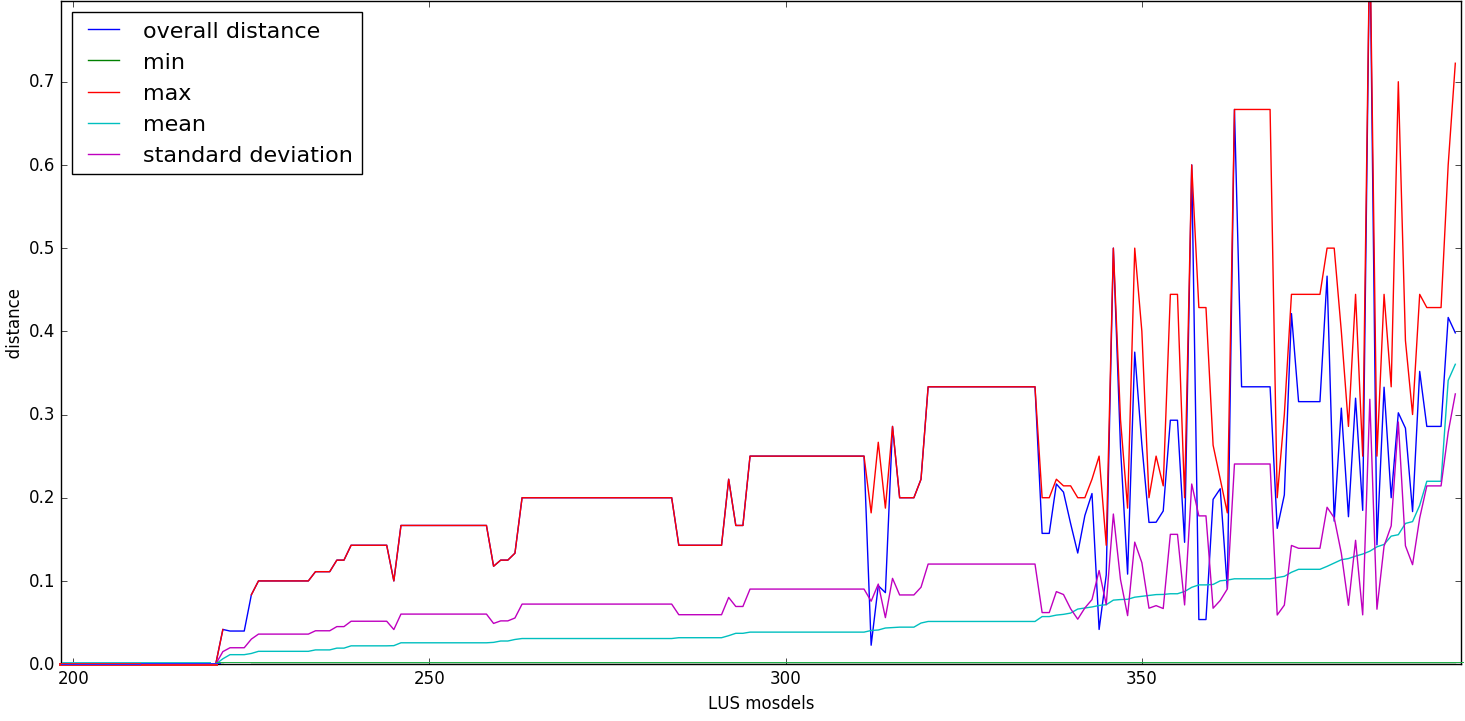
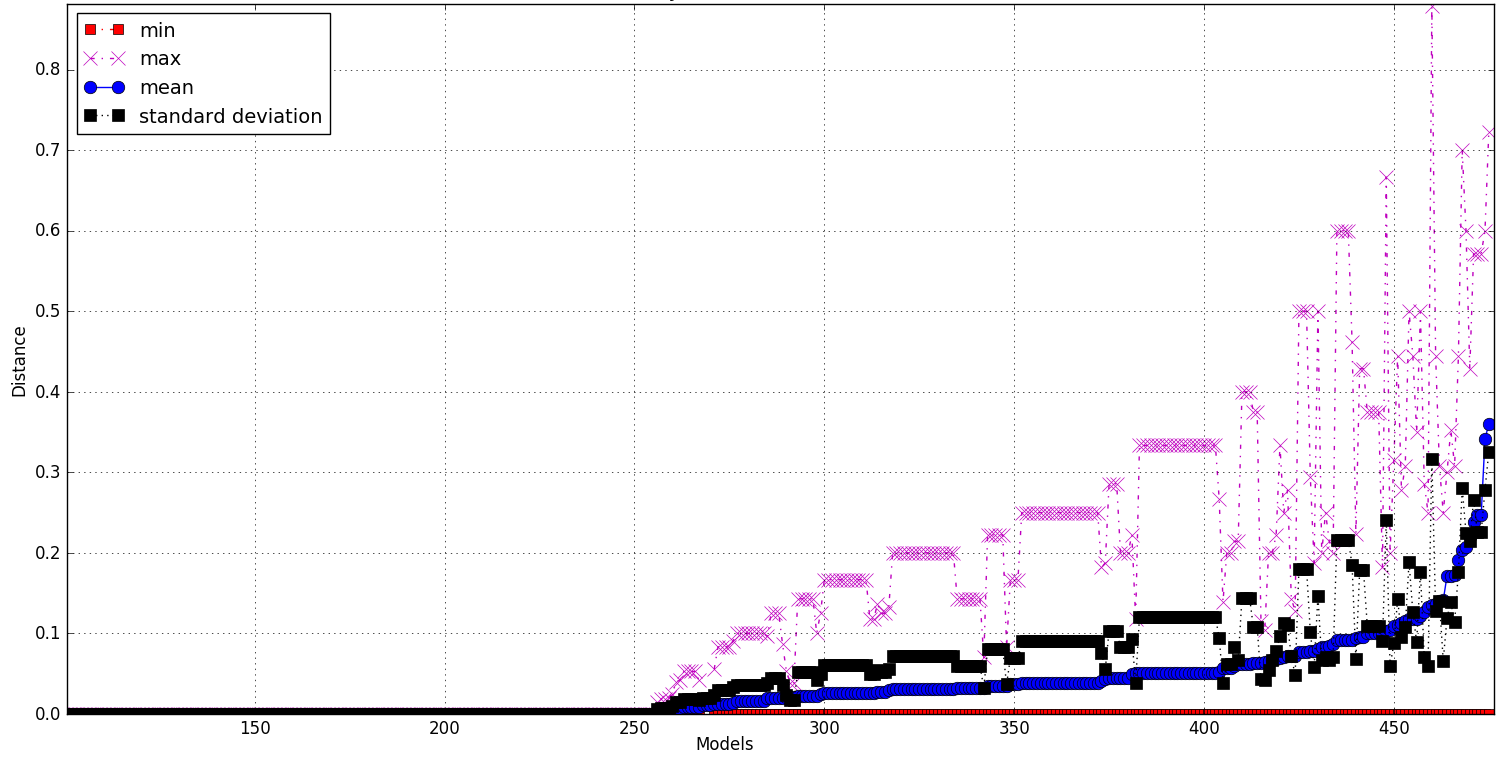
update pics!
will add more...

diff --git a/support/support_TeX/results.tex b/support/support_TeX/results.tex
@@ -57,6 +57,11 @@ Finally, we consider the combined \ucbfalg algorithm, in which we first run the 
   \caption{Runtime of \ucalg, \bfalg, \ucbfalg algorithm for Yices}\label{fig:runtimeall}
 \end{figure*}
 
+\begin{figure*}
+  \centering
+  \includegraphics[width=\textwidth]{figs/performance.png}
+  \caption{\ucalg performance on different solver}\label{fig:performance}
+\end{figure*}
 
 \begin{table}
   \centering
@@ -199,9 +204,8 @@ Since \texttt{JSupport}, with a great percentage, most of the time computed the 
 
 \begin{figure*}
   \centering
-  \includegraphics[width=0.75\textwidth]{figs/jacdis2.png} \\
-  \mike{Add new models, and fix spelling error (mosdels) !}
-  \caption{Pairwise Jaccard distance between support sets}\label{fig:jacdis}
+  \includegraphics[width=\textwidth]{figs/jacdis2.png} \\
+  \caption{Pairwise Jaccard distance between IVCs}\label{fig:jacdis2}
 \end{figure*}
 
 \subsection{Diversity}
@@ -251,7 +255,7 @@ Table~\ref{tab:variety} shows that, with an effect size of 0.79, H0 can be rejec
   \end{tabular}
   \caption{$D_{J\{M\}}$ among all models}
   \label{tab:variety}
-\end{table
+\end{table}
 \fi
 %summarized as follows:
 %\begin{itemize}
